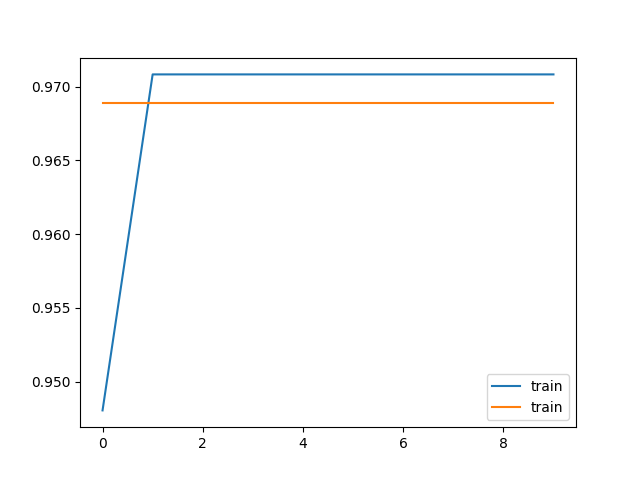
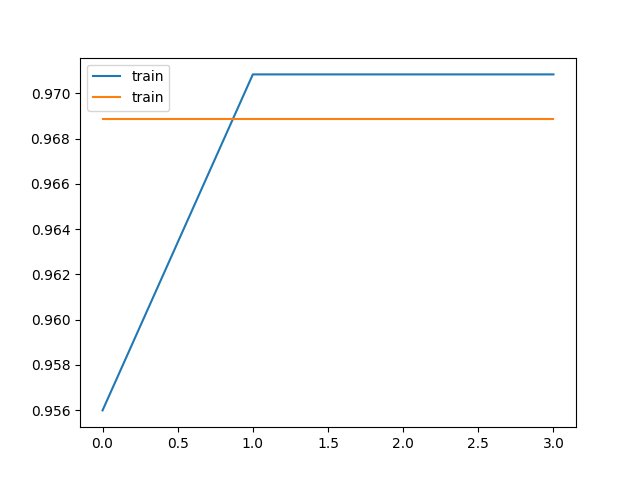
failed

diff --git a/code/models/content_based_filtering/nn.py b/code/models/content_based_filtering/nn.py
@@ -111,7 +111,7 @@ def get_content_nn_probs(train_df: pd.DataFrame, test_df: pd.DataFrame) -> np.nd
     resampled_train_dataset = tf.data.experimental.sample_from_datasets([pos_train_dataset, neg_train_dataset], weights=[0.5, 0.5])
     resampled_val_dataset = tf.data.experimental.sample_from_datasets([pos_val_dataset, neg_val_dataset], weights=[0.5, 0.5])
 
-    BATCH_SIZE = 1_000
+    BATCH_SIZE = 100_000
     train_dataset = resampled_train_dataset.shuffle(len(train_df) // 10).batch(BATCH_SIZE).prefetch(2) # NOTE: didn't spend much time thinking about this, probably because of oversampling want this to be larger
     val_dataset = resampled_val_dataset.shuffle(len(val_df) // 10).batch(BATCH_SIZE).prefetch(2)
 
@@ -148,6 +148,7 @@ def get_content_nn_probs(train_df: pd.DataFrame, test_df: pd.DataFrame) -> np.nd
     plt.legend()
     plt.savefig("nn_acc.png")
 
+    breakpoint()
     test_dataset = tf.data.Dataset.from_tensor_slices((test_df[["productId", "customerId"]].values, test_df.purchased.values))
     test_dataset = test_dataset.batch(BATCH_SIZE) # no shuffle!
     predictions = model.predict(test_dataset)
